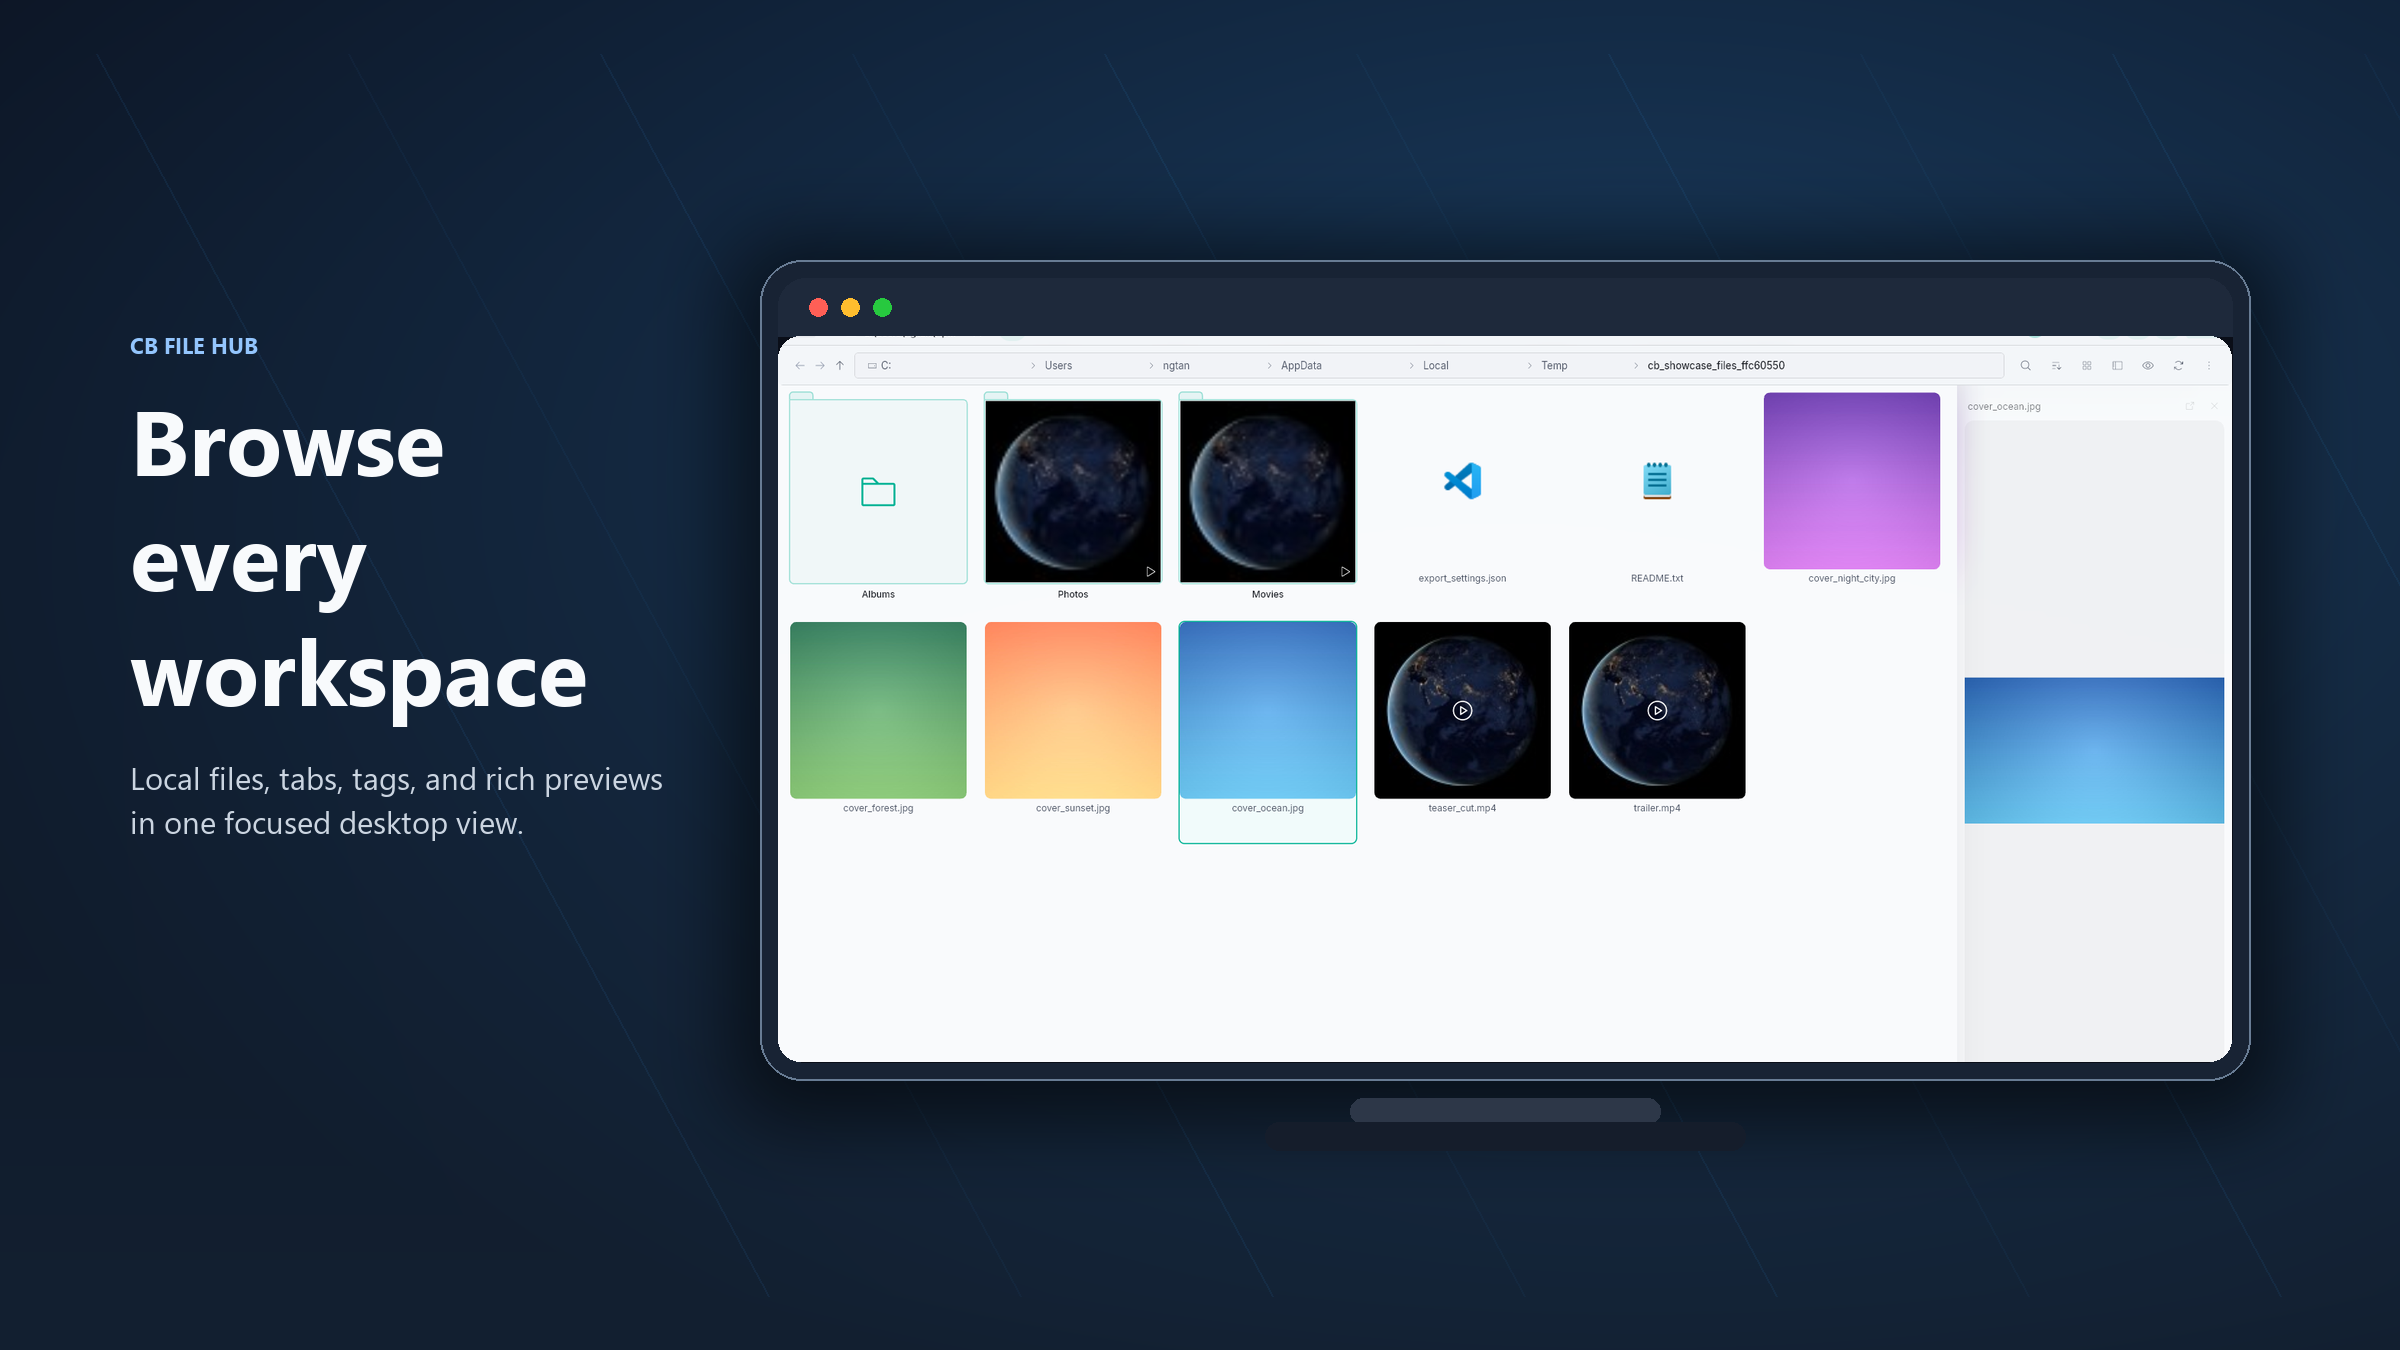
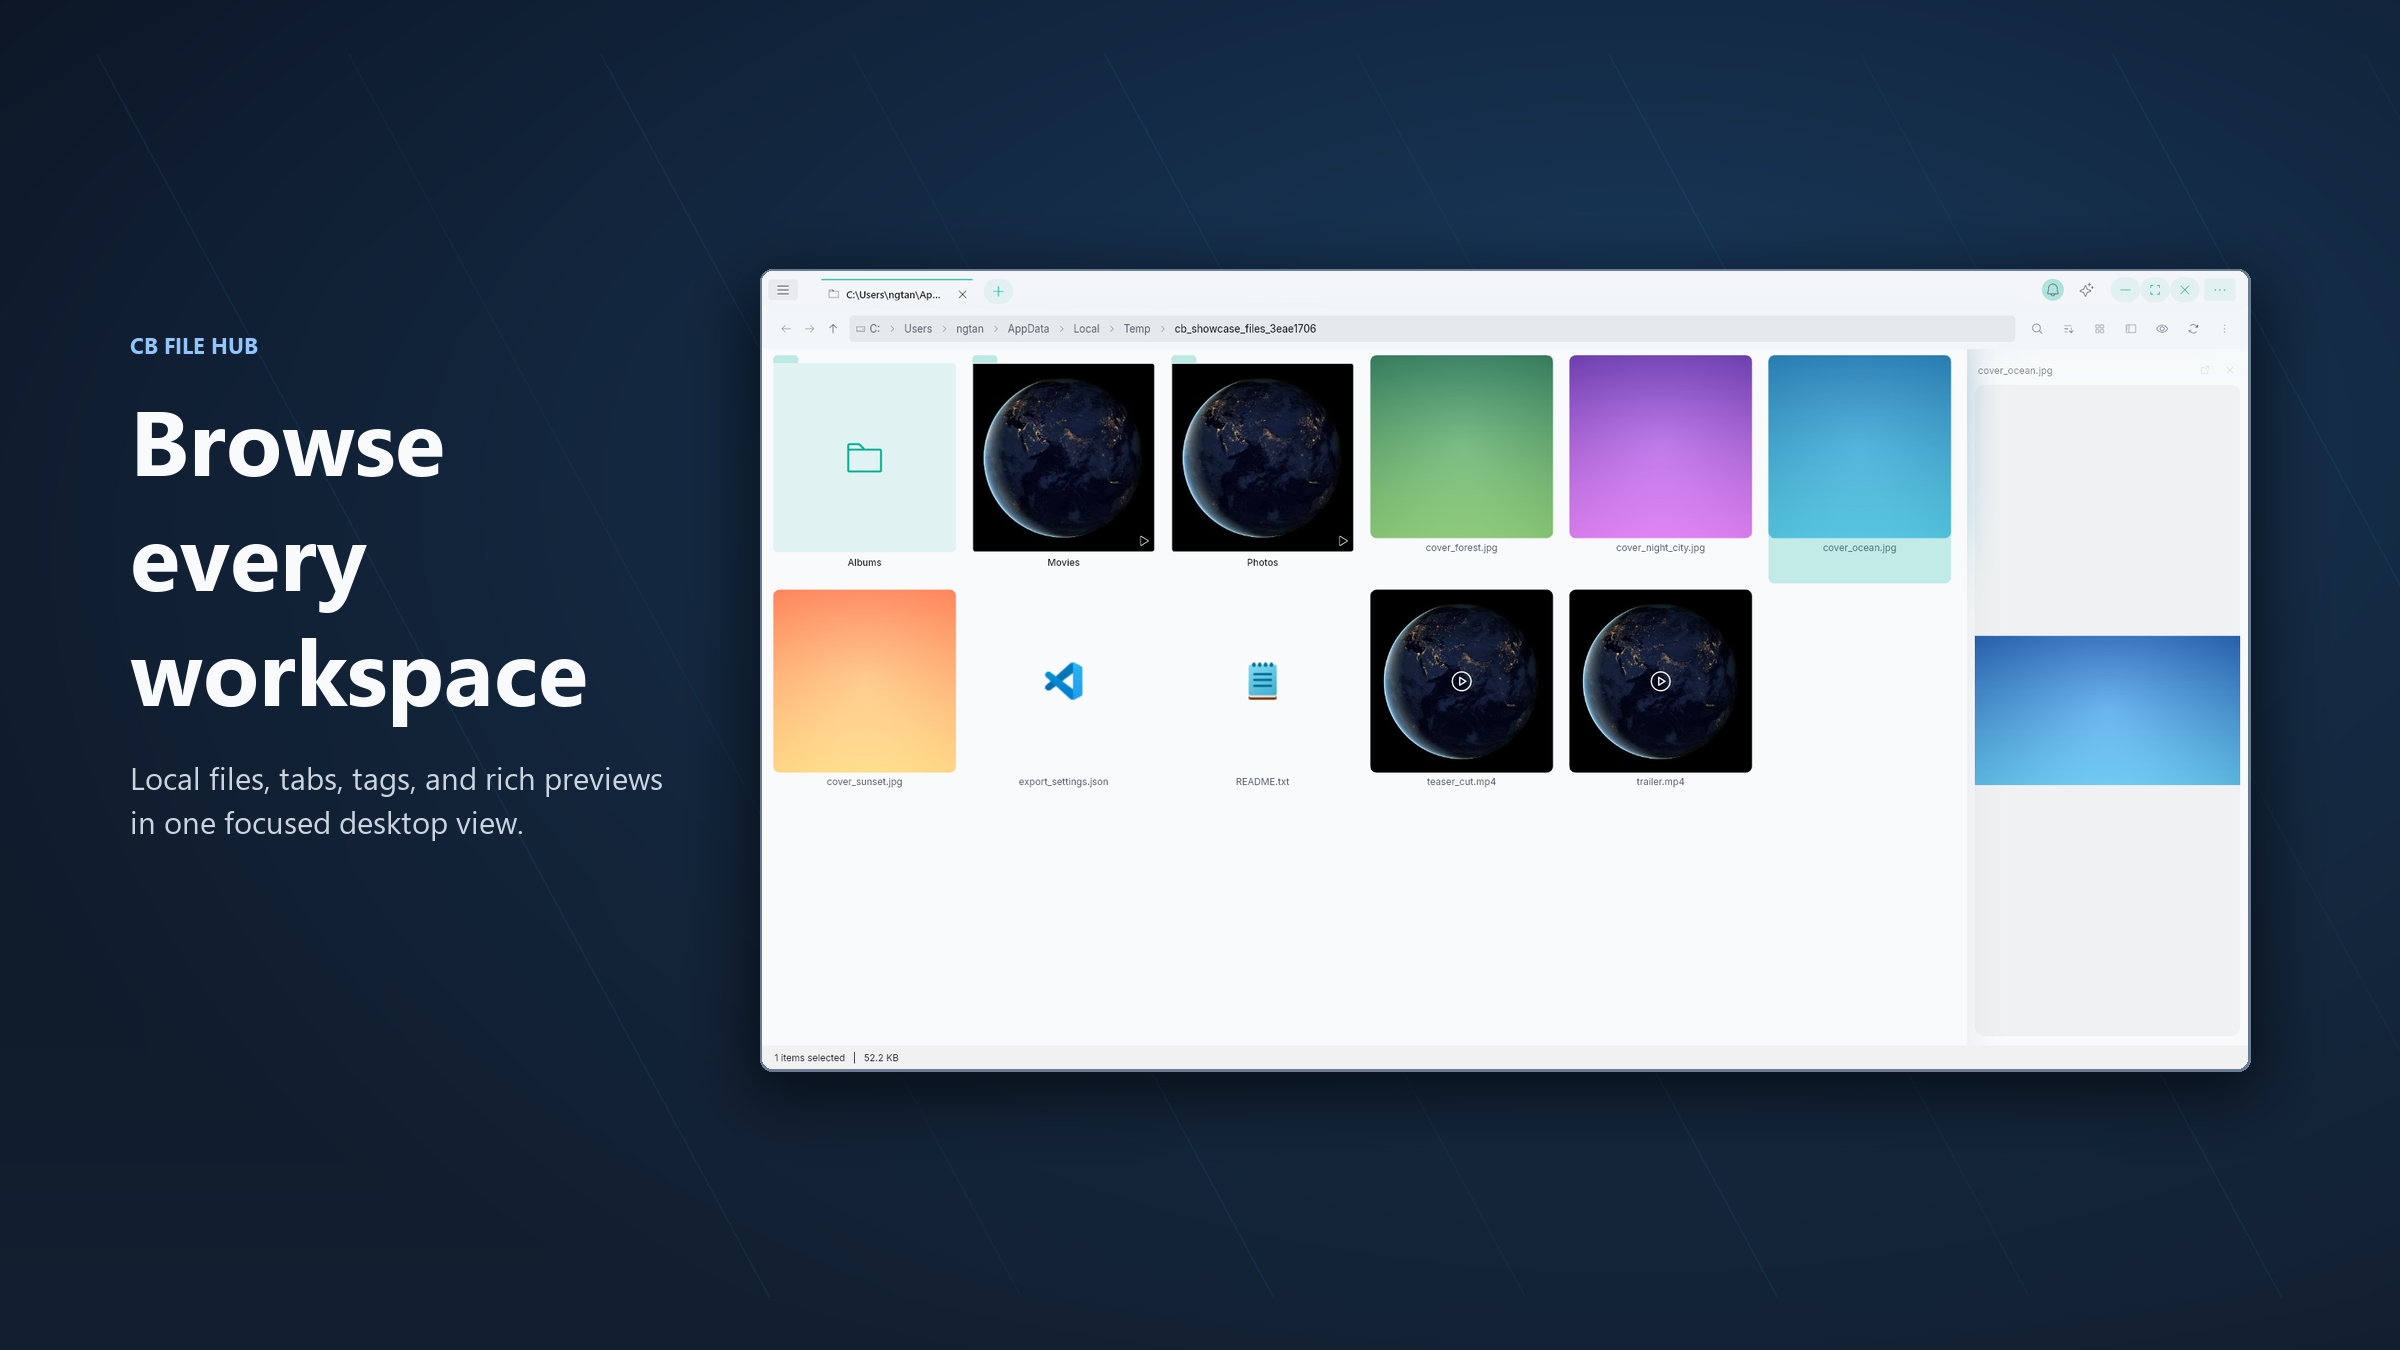
feat: update promo image generation script for desktop-only option and enhance frame drawing

Changed region(s): [[0.3125, 0.1867, 0.9375, 0.84]]

diff --git a/scripts/make_promo_images.py b/scripts/make_promo_images.py
@@ -223,22 +223,18 @@ def wrap_text(text: str, font: ImageFont.ImageFont, max_width: int) -> str:
 def draw_desktop_frame(base: Image.Image, screenshot: Image.Image, spec: PromoSpec) -> None:
     frame_x, frame_y = 760, 260
     frame_w, frame_h = 1490, 820
-    chrome_h = 58
-    draw_shadow(base, (frame_x - 28, frame_y - 18, frame_x + frame_w + 28, frame_y + frame_h + 42), 44, 38, 150)
+    # Keep the real Windows tab/title bar and its caption buttons visible.
+    # A separate decorative title bar duplicates the app's window controls;
+    # cover-resizing also crops those controls and the bottom status bar.
+    screen = contain_resize(screenshot, (frame_w - 4, frame_h - 4))
+    window_w, window_h = screen.width + 4, screen.height + 4
+    window_x = frame_x + (frame_w - window_w) // 2
+    window_y = frame_y + (frame_h - window_h) // 2
+    box = (window_x, window_y, window_x + window_w, window_y + window_h)
+    draw_shadow(base, (box[0] - 12, box[1] + 12, box[2] + 12, box[3] + 28), 12, 32, 150)
     draw = ImageDraw.Draw(base)
-    draw.rounded_rectangle((frame_x, frame_y, frame_x + frame_w, frame_y + frame_h), radius=42, fill=(24, 35, 52, 255), outline=(104, 124, 148, 160), width=2)
-    draw.rounded_rectangle((frame_x + 18, frame_y + 18, frame_x + frame_w - 18, frame_y + frame_h - 18), radius=28, fill=(10, 14, 24, 255))
-    draw.rounded_rectangle((frame_x + 18, frame_y + 18, frame_x + frame_w - 18, frame_y + 18 + chrome_h), radius=28, fill=(30, 41, 59, 255))
-    draw.rectangle((frame_x + 18, frame_y + 18 + chrome_h // 2, frame_x + frame_w - 18, frame_y + 18 + chrome_h), fill=(30, 41, 59, 255))
-    for i, color in enumerate([(255, 95, 86), (255, 189, 46), (39, 201, 63)]):
-        cx = frame_x + 58 + i * 32
-        cy = frame_y + 47
-        draw.ellipse((cx - 9, cy - 9, cx + 9, cy + 9), fill=(*color, 255))
-    screen_box = (frame_x + 18, frame_y + 18 + chrome_h, frame_w - 36, frame_h - 36 - chrome_h)
-    screen = cover_resize(screenshot, (screen_box[2], screen_box[3]))
-    paste_rounded(base, screen, (screen_box[0], screen_box[1]), 22)
-    draw.rounded_rectangle((frame_x + 590, frame_y + frame_h + 18, frame_x + 900, frame_y + frame_h + 44), radius=13, fill=(45, 55, 72, 255))
-    draw.rounded_rectangle((frame_x + 505, frame_y + frame_h + 42, frame_x + 985, frame_y + frame_h + 70), radius=14, fill=(21, 29, 43, 255))
+    draw.rounded_rectangle(box, radius=12, fill=(104, 124, 148, 255))
+    paste_rounded(base, screen, (window_x + 2, window_y + 2), 10)
     draw_text_block(draw, (130, 330), spec.title, spec.subtitle, 550, 92)
 
 
@@ -399,17 +395,18 @@ def build_parser() -> argparse.ArgumentParser:
     parser.add_argument("--desktop-source", type=Path, default=DEFAULT_DESKTOP_SOURCE)
     parser.add_argument("--mobile-source", type=Path, default=DEFAULT_MOBILE_SOURCE)
     parser.add_argument("--output", type=Path, default=DEFAULT_OUTPUT)
+    parser.add_argument("--desktop-only", action="store_true", help="Regenerate only English and Vietnamese desktop promos.")
     return parser
 
 
 def main() -> None:
     args = build_parser().parse_args()
     desktop_sources = discover_desktop_sources(args.desktop_source)
-    mobile_sources = discover_mobile_sources(args.mobile_source)
+    mobile_sources = [] if args.desktop_only else discover_mobile_sources(args.mobile_source)
 
     if not desktop_sources:
         raise SystemExit(f"No desktop screenshots found in {args.desktop_source}")
-    if not mobile_sources:
+    if not args.desktop_only and not mobile_sources:
         raise SystemExit(f"No mobile screenshots found in {args.mobile_source}")
 
     desktop_output = args.output / "desktop"
@@ -424,6 +421,11 @@ def main() -> None:
         create_desktop_promo(source, desktop_output / desktop_promo_filename(index, spec), spec)
         vi_spec = DESKTOP_SPECS_VI[index % len(DESKTOP_SPECS_VI)]
         create_desktop_promo(source, desktop_vi_output / desktop_promo_filename(index, vi_spec), vi_spec)
+
+    if args.desktop_only:
+        print(f"Created {len(desktop_sources)} desktop promo images in {desktop_output}")
+        print(f"Created {len(desktop_sources)} Vietnamese desktop promo images in {desktop_vi_output}")
+        return
 
     for index, source in enumerate(mobile_sources):
         spec = MOBILE_SPECS[index % len(MOBILE_SPECS)]
